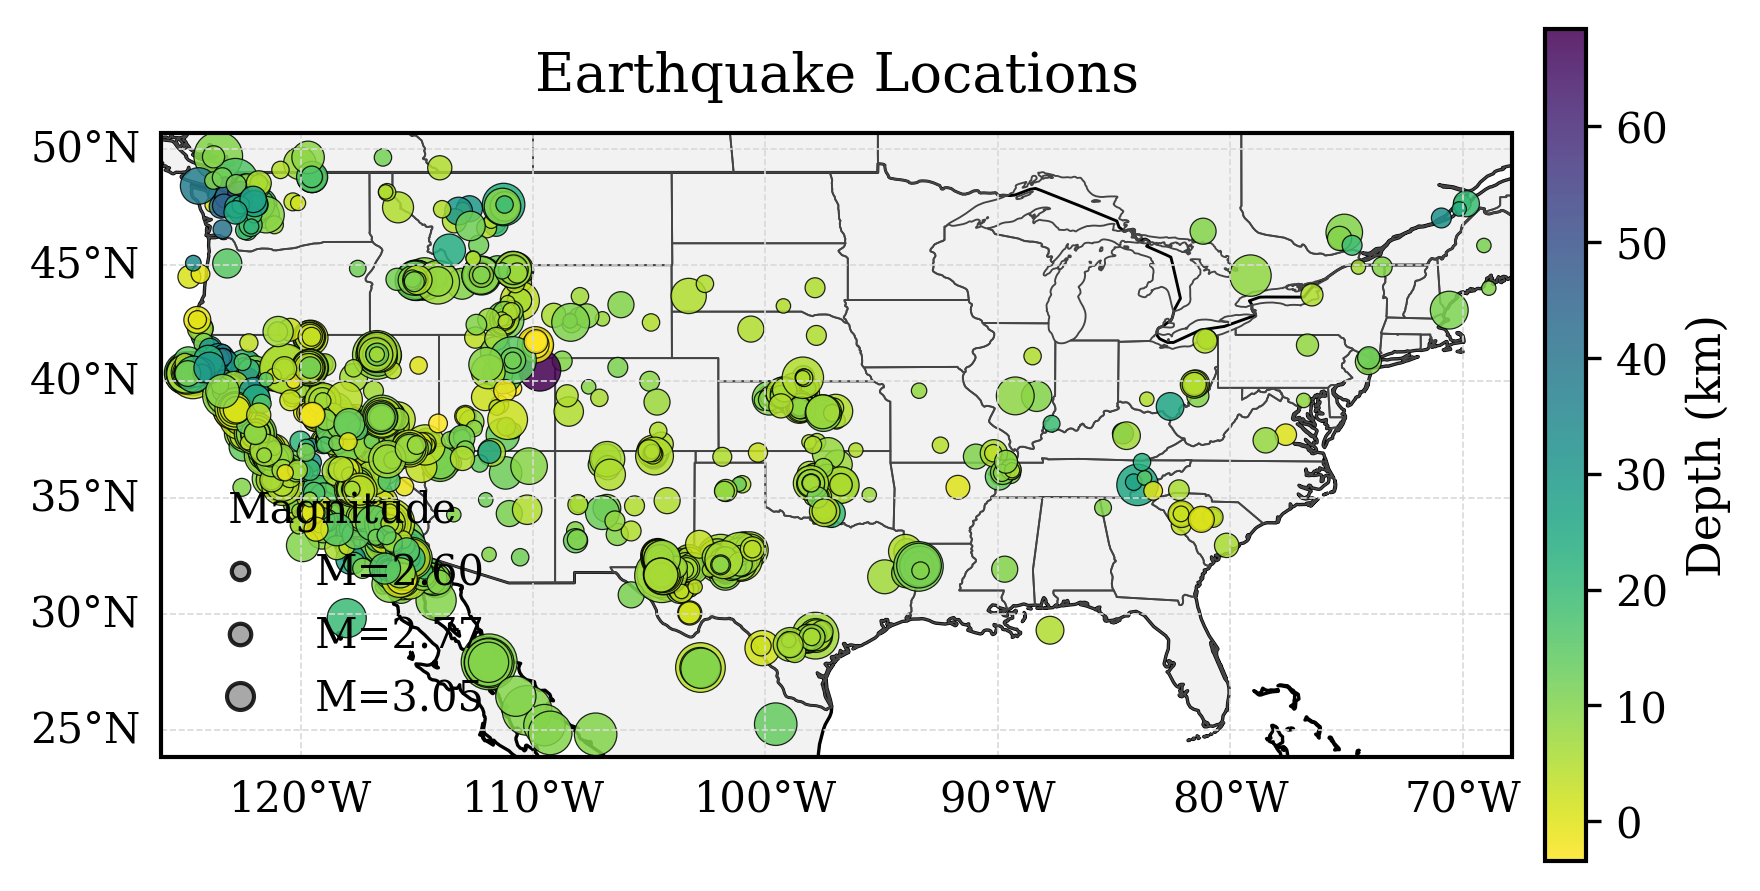
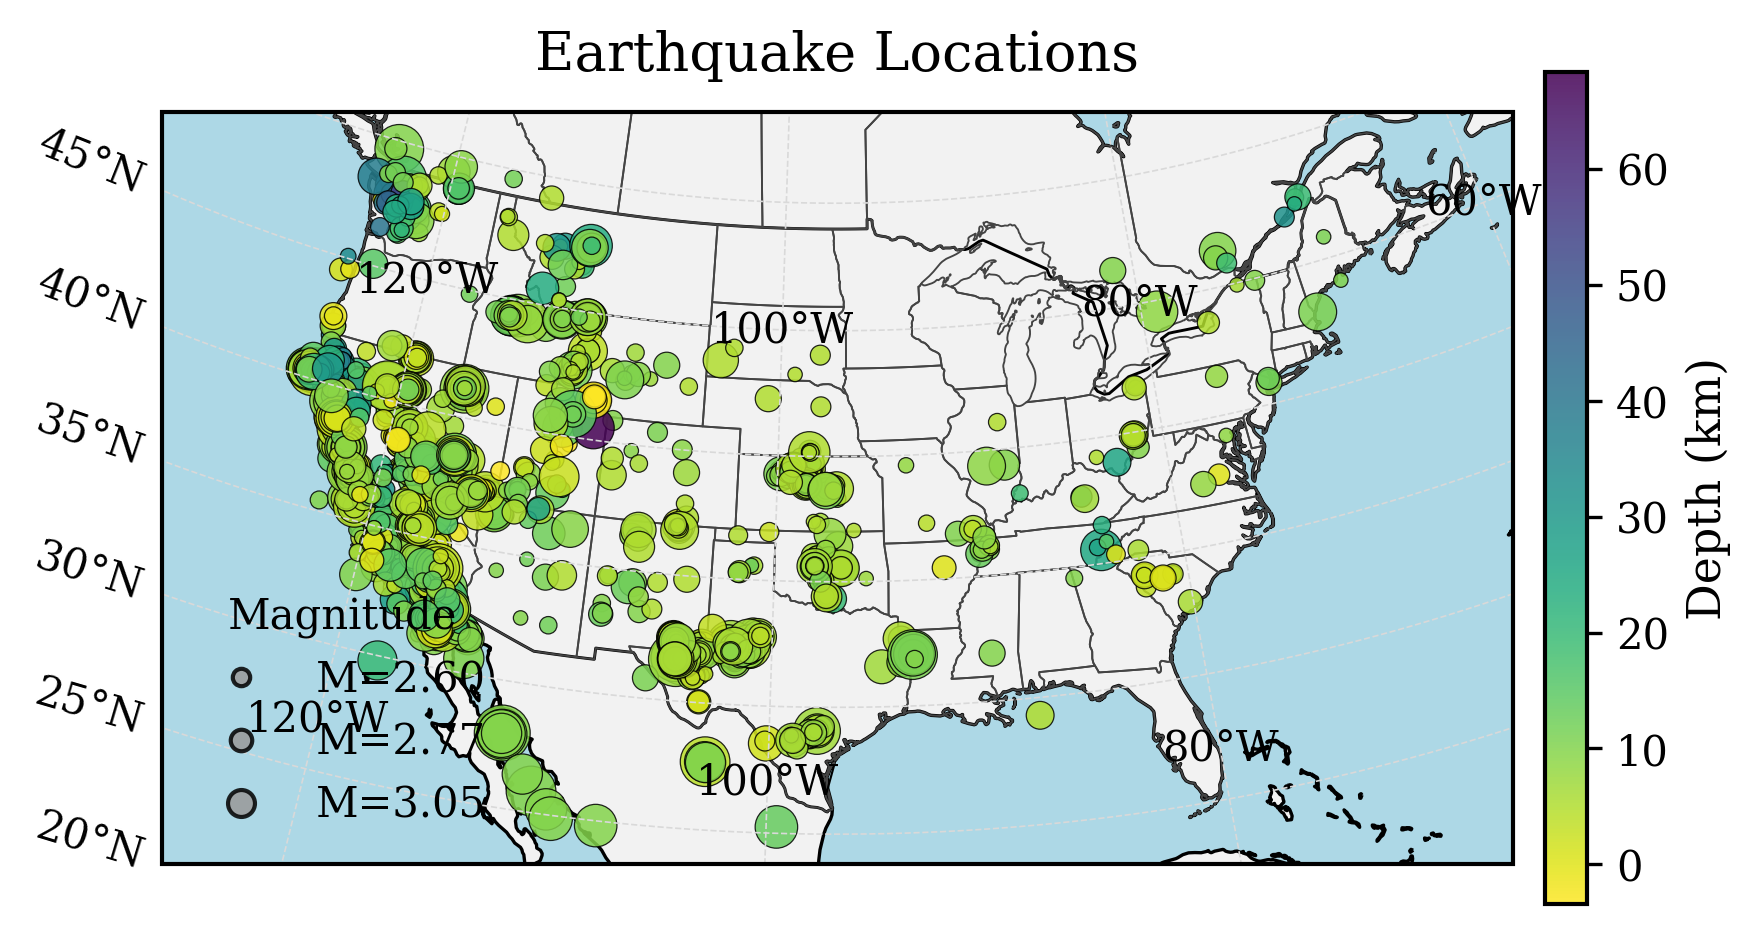
update color and projection of the earhquake map

diff --git a/earthquakes/src/plotting.py b/earthquakes/src/plotting.py
@@ -298,12 +298,30 @@ def plot_earthquake_location_map(
         use_cartopy = False
 
     if use_cartopy:
-        proj = ccrs.PlateCarree()
+        # Plot data are lon/lat, but the display projection can be nicer than
+        # Plate Carrée. Lambert Conformal is a good default for mid-latitude
+        # regional maps (e.g. continental US).
+        data_crs = ccrs.PlateCarree()
+        central_lon = 0.5 * (lon_min + lon_max)
+        central_lat = 0.5 * (lat_min + lat_max)
+        lat_span = max(1e-6, lat_max - lat_min)
+        sp1 = float(np.clip(lat_min + lat_span / 6.0, -80.0, 80.0))
+        sp2 = float(np.clip(lat_max - lat_span / 6.0, -80.0, 80.0))
+        if np.isclose(sp1, sp2):
+            sp1 = float(np.clip(central_lat - 5.0, -80.0, 80.0))
+            sp2 = float(np.clip(central_lat + 5.0, -80.0, 80.0))
+
+        proj = ccrs.LambertConformal(
+            central_longitude=float(central_lon),
+            central_latitude=float(central_lat),
+            standard_parallels=(sp1, sp2),
+        )
+
         fig = plt.figure()
         ax = plt.axes(projection=proj)
-        ax.set_extent([lon_min, lon_max, lat_min, lat_max], crs=proj)
+        ax.set_extent([lon_min, lon_max, lat_min, lat_max], crs=data_crs)
         ax.add_feature(cfeature.LAND, facecolor="#F2F2F2", zorder=0)
-        ax.add_feature(cfeature.OCEAN, facecolor="#FFFFFF", zorder=0)
+        ax.add_feature(cfeature.OCEAN, facecolor="#ADD8E6", zorder=0)
         ax.add_feature(cfeature.COASTLINE, linewidth=0.8, zorder=1)
         # Country borders (USA / neighbouring countries)
         ax.add_feature(cfeature.BORDERS, linewidth=0.7, zorder=1)
@@ -322,12 +340,15 @@ def plot_earthquake_location_map(
             alpha=alpha,
             linewidths=0.3,
             edgecolors="black",
-            transform=proj,
+            transform=data_crs,
             zorder=2,
         )
-        gl = ax.gridlines(draw_labels=True, linewidth=0.4, linestyle="--", color=COLOURS["grid"])
-        gl.top_labels = False
-        gl.right_labels = False
+        try:
+            gl = ax.gridlines(draw_labels=True, linewidth=0.4, linestyle="--", color=COLOURS["grid"])
+            gl.top_labels = False
+            gl.right_labels = False
+        except Exception:
+            ax.gridlines(draw_labels=False, linewidth=0.4, linestyle="--", color=COLOURS["grid"])
         ax.set_title(title, pad=10)
     else:
         fig, ax = plt.subplots()

diff --git a/earthquakes/README.md b/earthquakes/README.md
@@ -37,6 +37,8 @@ pip install -r requirements.txt
 python main.py
 ```
 
+Note: the location map uses Cartopy (installed via `requirements.txt`) to draw coastlines/borders and to render the points in a nicer map projection. If Cartopy installation is problematic on your machine, you can remove it from `requirements.txt` and the code will fall back to a plain lon/lat scatter plot.
+
 Figures are saved to `figures/`.
 
 ## Data

diff --git a/README.md b/README.md
@@ -182,7 +182,7 @@ Figures are written to `earthquakes/figures/`.
 
 **Where are the earthquakes?** (marker size = magnitude, color = depth)
 
-![Earthquake map with borders/states](earthquakes/figures/earthquake_map_states.png)
+![Earthquake map with borders/states](earthquakes/figures/earthquake_location_map.png)
 
 **Model diagnostics** (time-rescaling checks)
 
